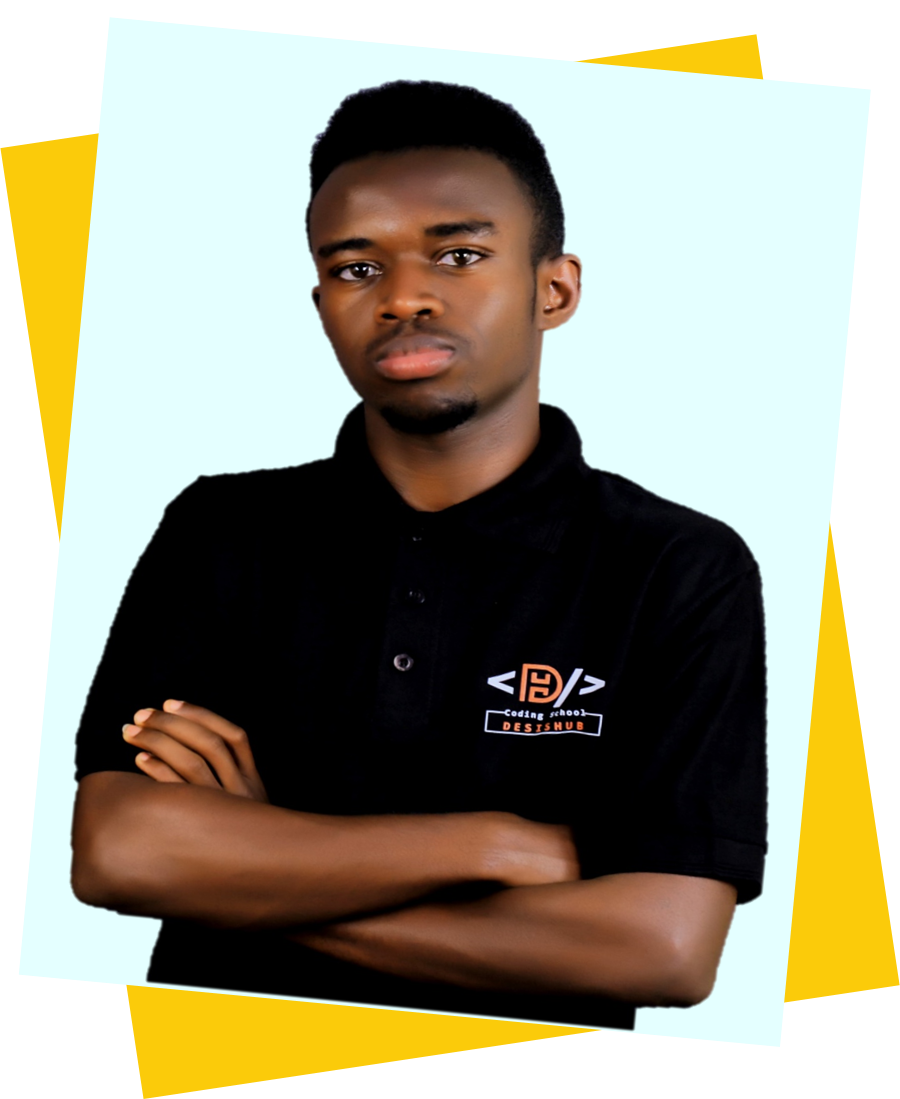
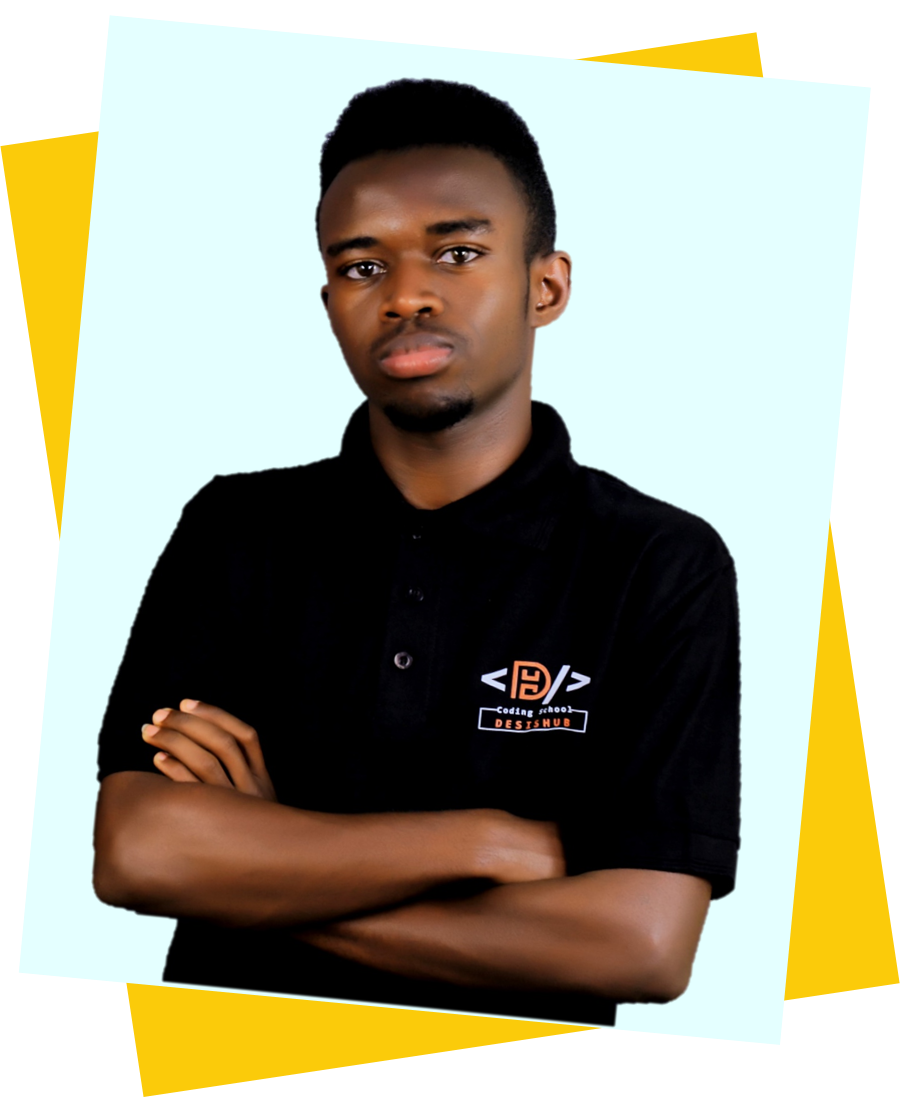
.

diff --git a/style.scss b/style.scss
@@ -180,7 +180,8 @@ body{
             }
             img{
                 @media(max-width:768px),(max-width: 200px){
-                    width: 100%;
+                    width: 95%;
+                    filter: grayscale(100%);
                 }
                 width: 78%;
             }

diff --git a/index.html b/index.html
@@ -67,7 +67,7 @@
                 </div>
             </div>
             <div class="right-main">
-                <img src="./assets/bann2.png" alt="">
+                <img src="./assets/bann1.png" alt="">
             </div>
         </div>
     </div>

diff --git a/style.css b/style.css
@@ -1017,6 +1017,7 @@ body {
 }
 @media (max-width: 768px), (max-width: 200px) {
   .work .main-work-menu .right-main img {
-    width: 100%;
+    width: 95%;
+    filter: grayscale(100%);
   }
 }/*# sourceMappingURL=style.css.map */
